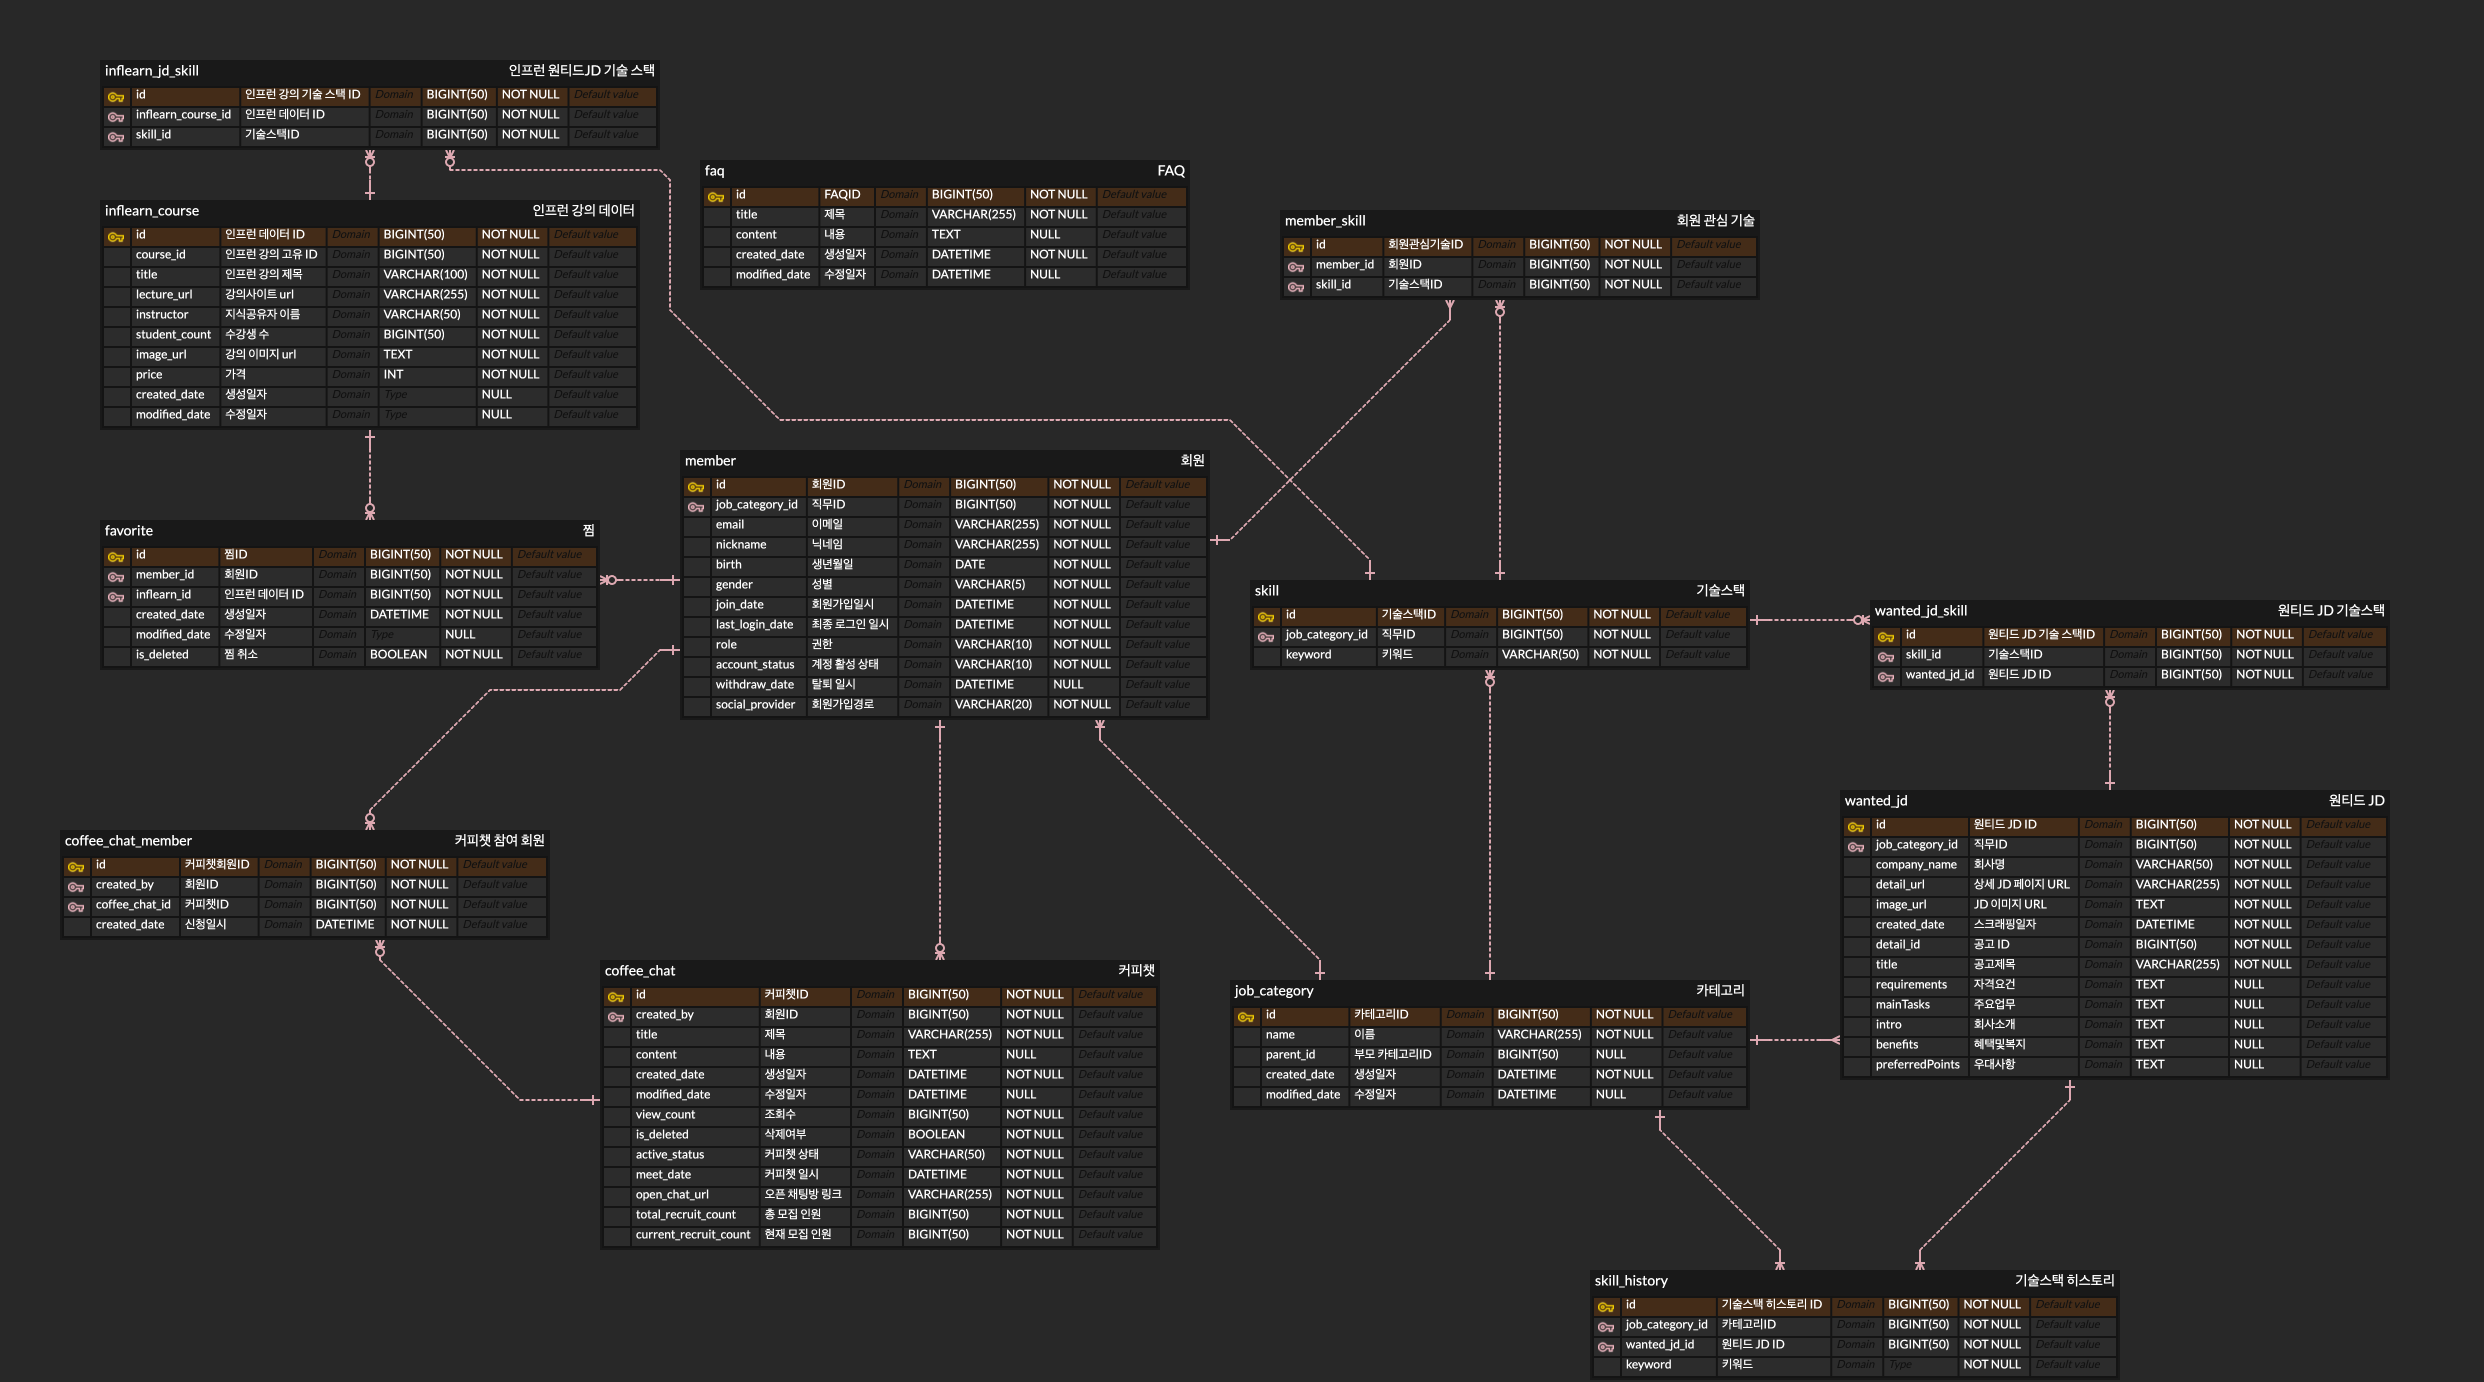
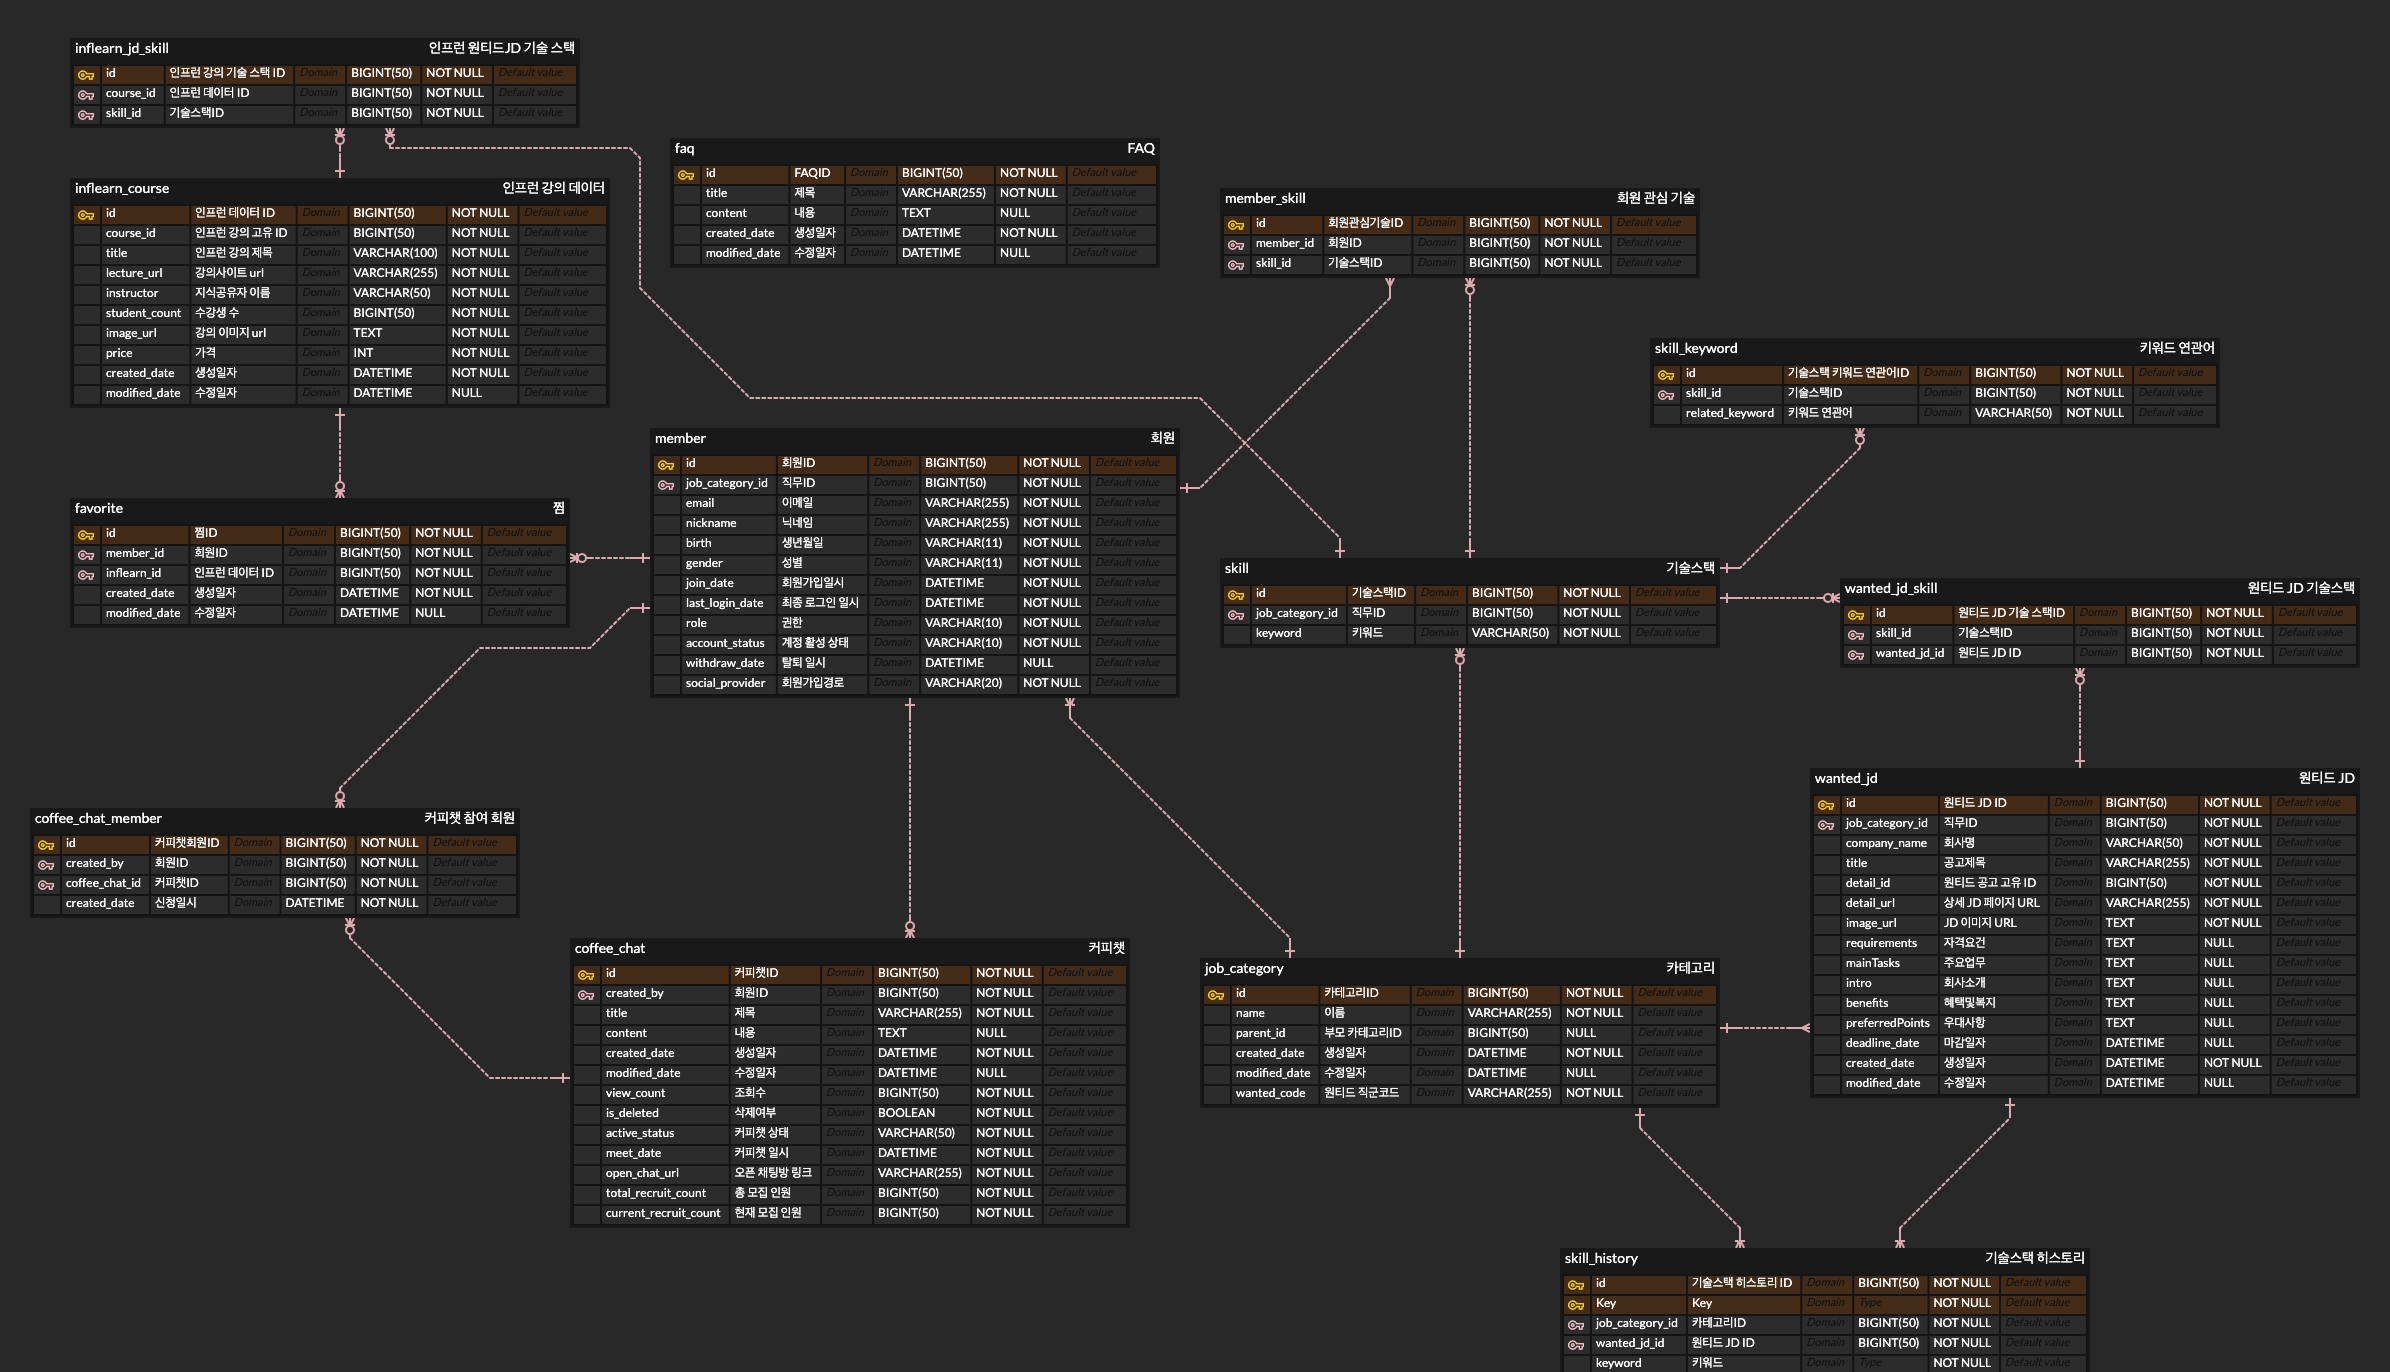
Docs: readme 문구 수정 및 ERD 업데이트 (#562)

diff --git a/README.md b/README.md
@@ -1,49 +1,51 @@
 # 💡 JDON
 
-원티드 JD, 인프런 강의, 그리고 네트워킹을 한 곳에서!
+인기있는 기술스택 키워드에 기반한 원티드 JD, 인프런 강의, 그리고 네트워킹을 한 곳에서!
 
 ## 📌 프로젝트 소개
 
-**취직 & 이직을 준비하는,**  **강의 선택 고민하는,**  **기술스택 파악을 원하는,**
-**커피챗을 통한 경험 공유를 원하는** 개발자를 위한 서비스, **JDON**
+**어떠한 기술스택** 으로 **어떠한 강의를** 학습해야하는지 고민하는 모든 개발자들을 위한, 개발자들의 네트워킹을 위한 서비스. **JDON**
 
 ### 📢 서비스 설명
 
 - **인기 기술스택 기반 추천**
     - 원티드에서 수집한 JD를 기반으로 사용자에게 인기 기술스택을 추천합니다.
 - **인프런 강의 연동**
-    - 각 기술스택에 대한 최신이고 실용적인 강의를 인프런에서 찾아 제공합니다.
+    - 인프런에서 각 기술스택에 대한 실용적인 인기 강의를 수집하여 제공합니다.
 - **개발자 커뮤니티**
-    - 사용자들 간의 정보 교류를 위한 커뮤니티를 제공하여, 경험 공유와 네트워킹을 도모합니다.
+    - JDON 회원을 위한 커피챗 서비스를 제공하여, 경험 공유와 네트워킹을 도모합니다.
 
 ### 🔍 JDON 미리 보기
 
 [JDON 바로가기](https://jdon.kr) 👉🏻 https://jdon.kr
 
 #### JD-ON
-| 목록 검색/조회                                      | 상세조회                                      | 리뷰           |
-|---------------------------------------------|-----------------------------------------------------------|--------------|
-| ![03_JD 목록 필터 검색](https://github.com/Kernel360/f1-JDON-Backend/assets/86637372/d6de8359-a2f5-401e-9c95-a27e829c30cf)| ![04_JD 상세조회](https://github.com/Kernel360/f1-JDON-Backend/assets/86637372/497225db-72c6-4c07-b6e8-a7b69789119a)|![04_리뷰작성조회삭제](https://github.com/Kernel360/f1-JDON-Backend/assets/86637372/e3984d8a-3a13-4b7f-b772-5ae967c848fb)|
-| 원티드에 게시된 JD를 필터 조건을 사용해서 조회할 수 있습니다.                    | JD의 상세 내용을 확인할 수 있습니다.  | 각 JD에 대해 JDON 사용자가 작성한 리뷰를 확인할 수 있습니다.                  |
+
+| 목록 검색/조회                                                                                                             | 상세조회                                                                                                             | 리뷰                                                                                                                |
+|----------------------------------------------------------------------------------------------------------------------|------------------------------------------------------------------------------------------------------------------|-------------------------------------------------------------------------------------------------------------------|
+| ![03_JD 목록 필터 검색](https://github.com/Kernel360/f1-JDON-Backend/assets/86637372/d6de8359-a2f5-401e-9c95-a27e829c30cf) | ![04_JD 상세조회](https://github.com/Kernel360/f1-JDON-Backend/assets/86637372/497225db-72c6-4c07-b6e8-a7b69789119a) | ![04_리뷰작성조회삭제](https://github.com/Kernel360/f1-JDON-Backend/assets/86637372/e3984d8a-3a13-4b7f-b772-5ae967c848fb) |
+| 원티드에 게시된 JD를 필터 조건을 사용해서 조회할 수 있습니다.                                                                                 | JD의 상세 내용을 확인할 수 있습니다.                                                                                           | 각 JD에 대해 JDON 사용자가 작성한 리뷰를 확인할 수 있습니다.                                                                            |
 
 #### 커피챗
-| 오픈                                                   |신청                                                | 모아보기                                       |
-|-------------------------------------------------------------|------------------------------------------------------------------|-------------------|
-| ![05_커피챗 오픈](https://github.com/Kernel360/f1-JDON-Backend/assets/86637372/70a4f101-60d3-4cab-a27e-73ae674cc4bb)| ![06_커피챗 신청](https://github.com/Kernel360/f1-JDON-Backend/assets/86637372/cd6e5aa9-66df-467b-a6cf-3635233a0aa5)|![07_커피챗 모아보기](https://github.com/Kernel360/f1-JDON-Backend/assets/86637372/023b81dd-efd8-4257-aada-e138c593b172)|
-| JDON의 회원은 커피챗을 자유롭게 오픈할 수 있습니다. <br> 커피챗을 오픈하기 위해서는 커피챗 진행 날짜, 시간, 모임 인원 그리고 커피챗 제목과 내용을 작성해야합니다.</br>    | JDON의 회원은 커피챗을 자유롭게 참여할 수 있습니다. |JDON 회원이 자신이 오픈한 커피챗과 신청한 커피챗을 마이페이지에서 확인할 수 있습니다. |
+
+| 오픈                                                                                                              | 신청                                                                                                              | 모아보기                                                                                                              |
+|-----------------------------------------------------------------------------------------------------------------|-----------------------------------------------------------------------------------------------------------------|-------------------------------------------------------------------------------------------------------------------|
+| ![05_커피챗 오픈](https://github.com/Kernel360/f1-JDON-Backend/assets/86637372/70a4f101-60d3-4cab-a27e-73ae674cc4bb) | ![06_커피챗 신청](https://github.com/Kernel360/f1-JDON-Backend/assets/86637372/cd6e5aa9-66df-467b-a6cf-3635233a0aa5) | ![07_커피챗 모아보기](https://github.com/Kernel360/f1-JDON-Backend/assets/86637372/023b81dd-efd8-4257-aada-e138c593b172) |
+| JDON의 회원은 커피챗을 자유롭게 오픈할 수 있습니다. <br> 커피챗을 오픈하기 위해서는 커피챗 진행 날짜, 시간, 모임 인원 그리고 커피챗 제목과 내용을 작성해야합니다.</br>          | JDON의 회원은 커피챗을 자유롭게 참여할 수 있습니다.                                                                                 | JDON 회원이 자신이 오픈한 커피챗과 신청한 커피챗을 마이페이지에서 확인할 수 있습니다.                                                                |
 
 #### 개인 서비스
-| 기술 기반 인프런 강의 & JD 추천                                                  | 찜하기                                                                                                  |
-|------------------------------------------------------------------------------------------------|----------------------------------------------------------------------------------------------------------------|
-| ![01_기술 기반 추천](https://github.com/Kernel360/f1-JDON-Backend/assets/86637372/d02cdd1f-f86c-455c-b148-2638920ac67f)| ![02_찜](https://github.com/Kernel360/f1-JDON-Backend/assets/86637372/31e54d3b-09d4-418e-b008-4d86c7930f0f)|
-| 원티드에서 크롤링한 기술스택 키워드를 기반으로 </br> 관련된 인프런 인기 강의와 해당 기술에 관심을 가진 회사의</br> 채용 공고(Job Description)를 제공합니다.</br> JDON의 회원이 아니어도 해당 서비스를 이용할 수 있습니다. | 개인화된 서비스를 제공하기 위해 강의 찜하기 기능을 제공합니다. </br> JDON의 회원에게 해당 서비스를 제공합니다. |
+
+| 기술 기반 인프런 강의 & JD 추천                                                                                                                         | 찜하기                                                                                                        |
+|----------------------------------------------------------------------------------------------------------------------------------------------|------------------------------------------------------------------------------------------------------------|
+| ![01_기술 기반 추천](https://github.com/Kernel360/f1-JDON-Backend/assets/86637372/d02cdd1f-f86c-455c-b148-2638920ac67f)                            | ![02_찜](https://github.com/Kernel360/f1-JDON-Backend/assets/86637372/31e54d3b-09d4-418e-b008-4d86c7930f0f) |
+| 원티드에서 크롤링한 기술스택 키워드를 기반으로 </br> 관련된 인프런 인기 강의와 해당 기술에 관심을 가진 회사의</br> 채용 공고(Job Description)를 제공합니다.</br> JDON의 회원이 아니어도 해당 서비스를 이용할 수 있습니다. | 개인화된 서비스를 제공하기 위해 강의 찜하기 기능을 제공합니다. </br> JDON의 회원에게 해당 서비스를 제공합니다.                                        |
 
 #### 소셜 인증
-| 로그인                                           | 회원가입                                                     |
-|---------------------------------------------------|-----------------------------------------------------------|
-| ![로그인](https://github.com/Kernel360/f1-JDON-Backend/assets/86637372/cf9fd043-1476-435f-835c-d11f9d053505) | ![회원가입](https://github.com/Kernel360/f1-JDON-Backend/assets/86637372/b30ab20f-682e-497d-a1b6-e3874ee80ab5)               |
-| JDON은 카카오와 깃헙을 통해서 편리하게 로그인하실 수 있습니다.                  | JDON은 카카오와 깃헙을 통해서 편리하게 회원가입하실 수 있습니다.     |
 
+| 로그인                                                                                                       | 회원가입                                                                                                       |
+|-----------------------------------------------------------------------------------------------------------|------------------------------------------------------------------------------------------------------------|
+| ![로그인](https://github.com/Kernel360/f1-JDON-Backend/assets/86637372/cf9fd043-1476-435f-835c-d11f9d053505) | ![회원가입](https://github.com/Kernel360/f1-JDON-Backend/assets/86637372/b30ab20f-682e-497d-a1b6-e3874ee80ab5) |
+| JDON은 카카오와 깃헙을 통해서 편리하게 로그인하실 수 있습니다.                                                                     | JDON은 카카오와 깃헙을 통해서 편리하게 회원가입하실 수 있습니다.                                                                     |
 
 ## 🗃 개발 기록
 
@@ -74,9 +76,10 @@
 ![](docs/images/jdon_erd.png)
 
 ### 🏗 Architecture
-| Back-End                                      | 운영 & 개발 환경 구축                                           |
-|---------------------------------------------|-----------------------------------------------------------|
-| ![jdon-architecture_720](https://github.com/Kernel360/f1-JDON-Backend/assets/86637372/602d3814-6a64-4e03-b676-94ed0c3814be) |![jdon-server_720](https://github.com/Kernel360/f1-JDON-Backend/assets/86637372/98dc3590-11e0-4835-81d4-83116a9e5cce)
+
+| Back-End                                                                                                                    | 운영 & 개발 환경 구축                                                                                                         |
+|-----------------------------------------------------------------------------------------------------------------------------|-----------------------------------------------------------------------------------------------------------------------|
+| ![jdon-architecture_720](https://github.com/Kernel360/f1-JDON-Backend/assets/86637372/602d3814-6a64-4e03-b676-94ed0c3814be) | ![jdon-server_720](https://github.com/Kernel360/f1-JDON-Backend/assets/86637372/98dc3590-11e0-4835-81d4-83116a9e5cce) 
 
 ### 📚 개발 기록
 
@@ -126,16 +129,24 @@
     </tr>
     <tr>
         <td align="center">
-        <sub><b>원티드 크롤링</b></sub>
+        <sub><b>프로젝트 구조 및 아키텍처 도입</b></sub>
+        <br>
+        <sub><b>원티드 크롤링 배치 스케줄러 구축</b></sub>
         </td>
         <td align="center">
         <sub><b>커피챗 서비스</b></sub>
+        <br>
+        <sub><b>모니터링 환경 구축</b></sub>
         </td>
         <td align="center">
-        <sub><b>인프런 크롤링</b></sub>
+        <sub><b>인프런 크롤링 배치 스케줄러 구축</b></sub>
+        <br>
+        <sub><b>기술스택 연관어 캐시 구축</b></sub>
         </td>
         <td align="center">
-        <sub><b>로그인 서비스</b></sub>
+        <sub><b>소셜 로그인 서비스 구축</b></sub>
+        <br>
+        <sub><b>CI / CD 파이프라인 구축</b></sub>
         </td>
     </tr>
   </tbody>
